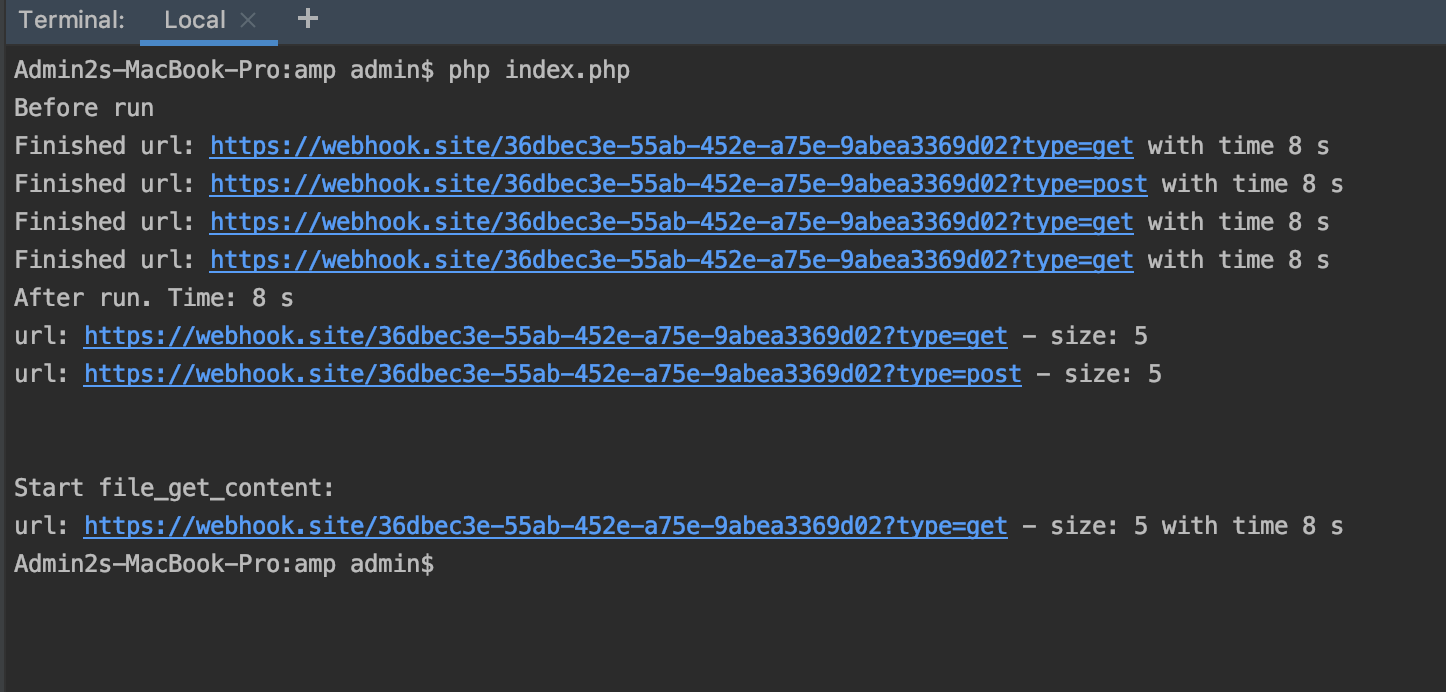
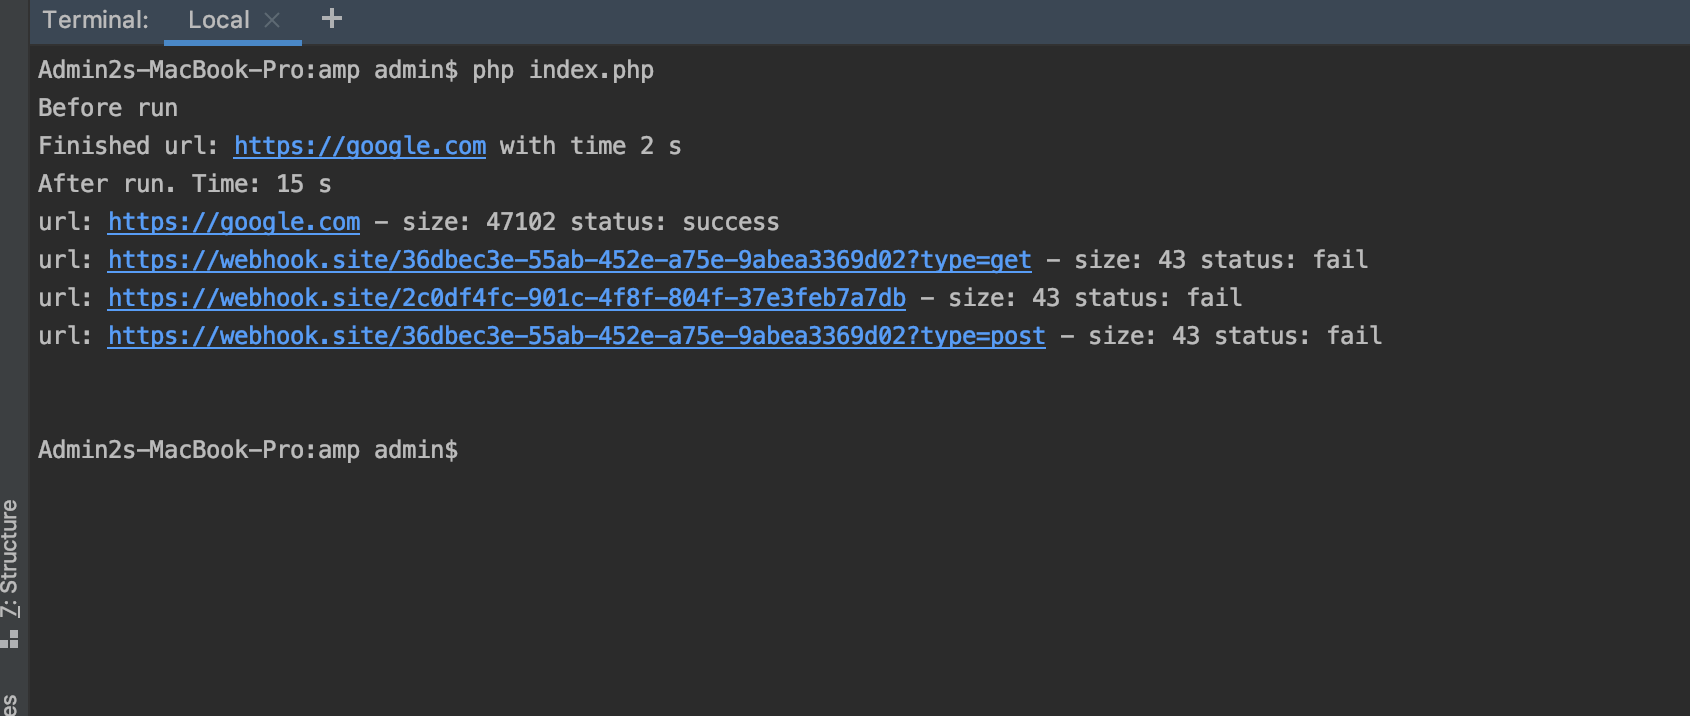
added errors to requests

diff --git a/AmpClass.php b/AmpClass.php
@@ -3,6 +3,8 @@
 use Amp\Artax\DefaultClient;
 use Amp\Artax\Request;
 use Amp\Artax\Response;
+use Amp\Coroutine;
+use Amp\Promise;
 use Amp\Loop;
 
 /**
@@ -16,12 +18,10 @@ class AmpClass
     /** @var DefaultClient */
     protected $client;
 
-    protected $result = [];
-
     public function __construct()
     {
         $this->client = new DefaultClient;
-        $this->client->setOption(DefaultClient::OP_TRANSFER_TIMEOUT, 90000);
+        $this->client->setOption(DefaultClient::OP_TRANSFER_TIMEOUT, 15000);
     }
 
     /**
@@ -38,20 +38,46 @@ class AmpClass
 
     public function run()
     {
-        Loop::run(function () {
+        $result = [];
+        Loop::run(function () use(&$result) {
             try {
+                /** @var Coroutine[] $promises */
                 $promises = [];
                 foreach ($this->urls as $urlInfo) {
                     $promises[$urlInfo['url']] = Amp\call($this->getRequestHandler(), $urlInfo['url'],
                         $urlInfo['body']);
                 }
-                $this->result = yield $promises;
+                $result = yield Promise\any($promises);
+                $result = $this->prepareResult($result);
             } catch (Amp\Artax\HttpException $error) {
-                echo $error;
+                //echo $error;
             }
         });
 
-        return $this->result;
+        return $result;
+    }
+
+    protected function prepareResult(array $result)
+    {
+        $data = [];
+
+        /** @var Exception[] $statuses */
+        $statuses = array_shift($result);
+        $responses = array_shift($result);
+        foreach ($responses as $url => $response) {
+            $data[$url] = [
+                'status' => true,
+                'data' => $response,
+            ];
+        }
+        foreach ($statuses as $url => $status) {
+            $data[$url] = [
+                'status' => false,
+                'data' => $status->getMessage(),
+            ];
+        }
+
+        return $data;
     }
 
     /**

diff --git a/index.php b/index.php
@@ -8,9 +8,9 @@ $amp = new AmpClass();
 // https://webhook.site/#!/36dbec3e-55ab-452e-a75e-9abea3369d02/a4495809-0027-440f-a7f0-1bbe8e8d31cb/1
 
 $amp->addUrl("https://webhook.site/36dbec3e-55ab-452e-a75e-9abea3369d02?type=get");
-$amp->addUrl("https://webhook.site/36dbec3e-55ab-452e-a75e-9abea3369d02?type=get");
-$amp->addUrl("https://webhook.site/36dbec3e-55ab-452e-a75e-9abea3369d02?type=get");
+$amp->addUrl("https://webhook.site/2c0df4fc-901c-4f8f-804f-37e3feb7a7db"); // error
 $amp->addUrl("https://webhook.site/36dbec3e-55ab-452e-a75e-9abea3369d02?type=post", ['test' => 'ok']);
+$amp->addUrl("https://google.com");
 
 $time = time();
 
@@ -18,19 +18,7 @@ print 'Before run' . PHP_EOL;
 $result = $amp->run();
 print 'After run. Time: ' . (time() - $time) . ' s' . PHP_EOL;
 
-foreach ($result as $url => $item)
-{
-    print 'url: ' . $url . ' - size: ' . strlen($item) . PHP_EOL;
+foreach ($result as $url => $item) {
+    print 'url: ' . $url . ' - size: ' . strlen($item['data']) . ' status: ' . ($item['status'] ? 'success' : 'fail') . PHP_EOL;
 }
 print PHP_EOL . PHP_EOL;
-
-
-
-
-
-print 'Start file_get_content: ' . PHP_EOL;
-$time = time();
-$url = 'https://webhook.site/36dbec3e-55ab-452e-a75e-9abea3369d02?type=get';
-$response = file_get_contents($url);
-
-print 'url: ' . $url . ' - size: ' . strlen($response) . ' with time ' . (time() - $time) . ' s' . PHP_EOL;
